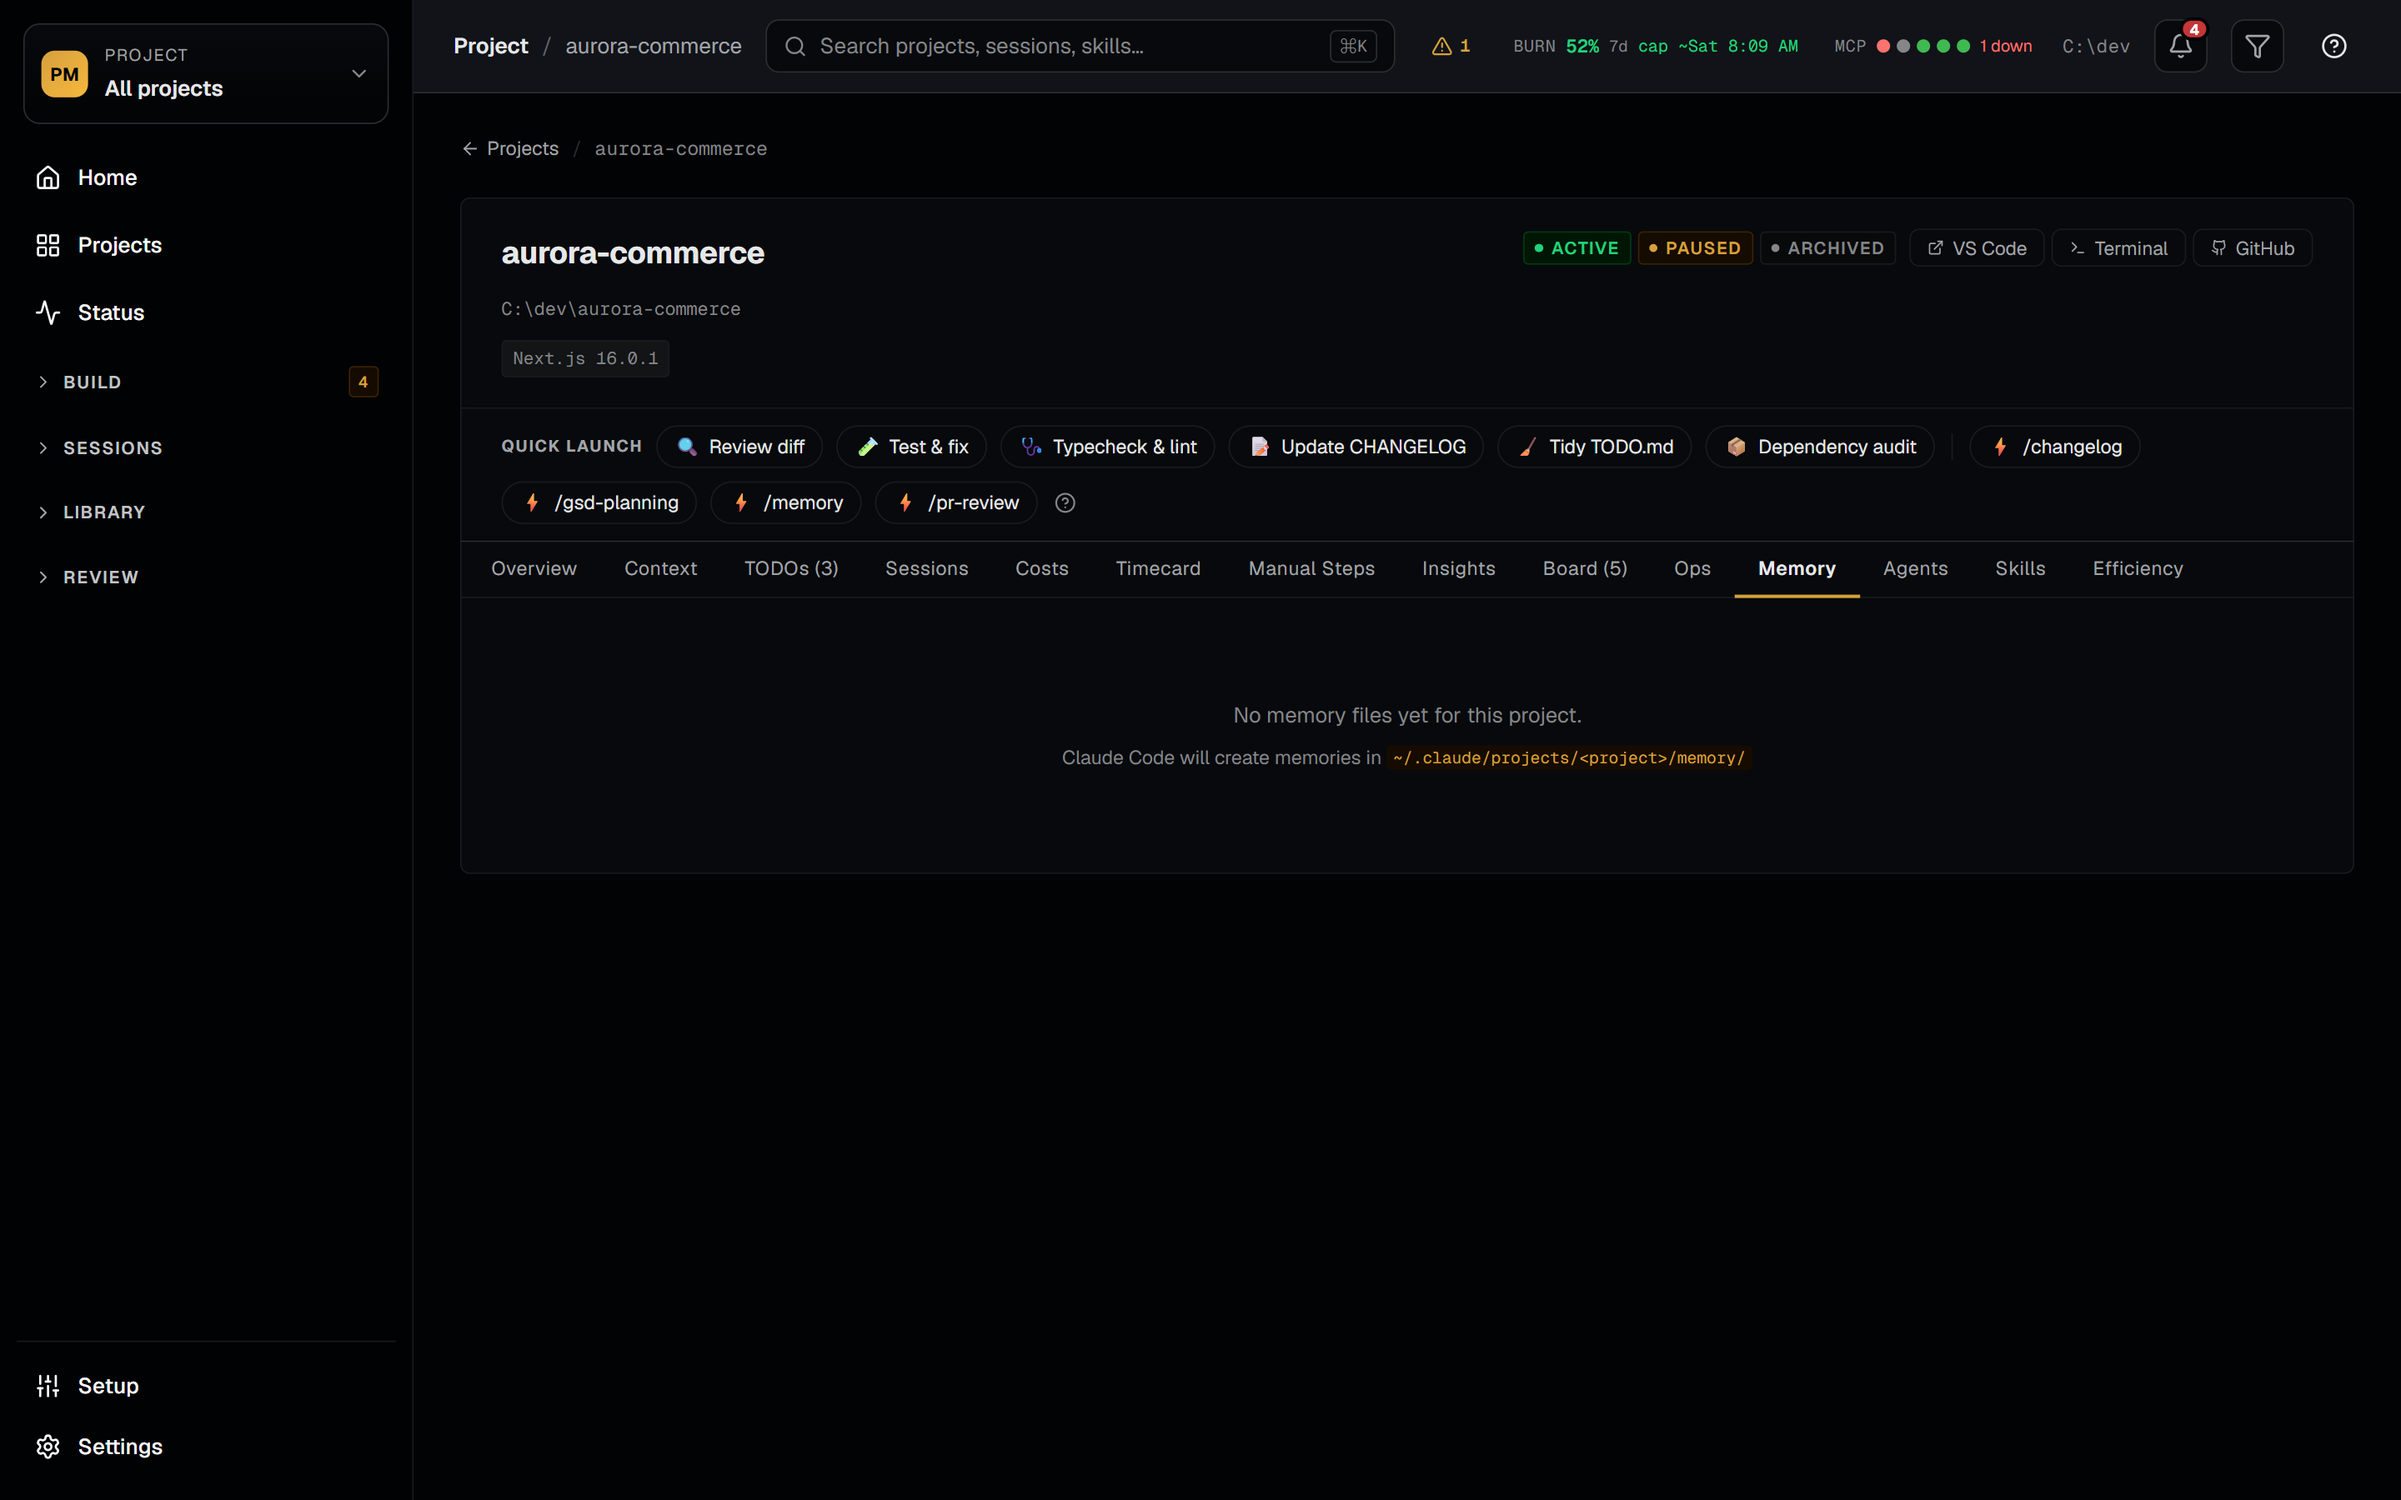
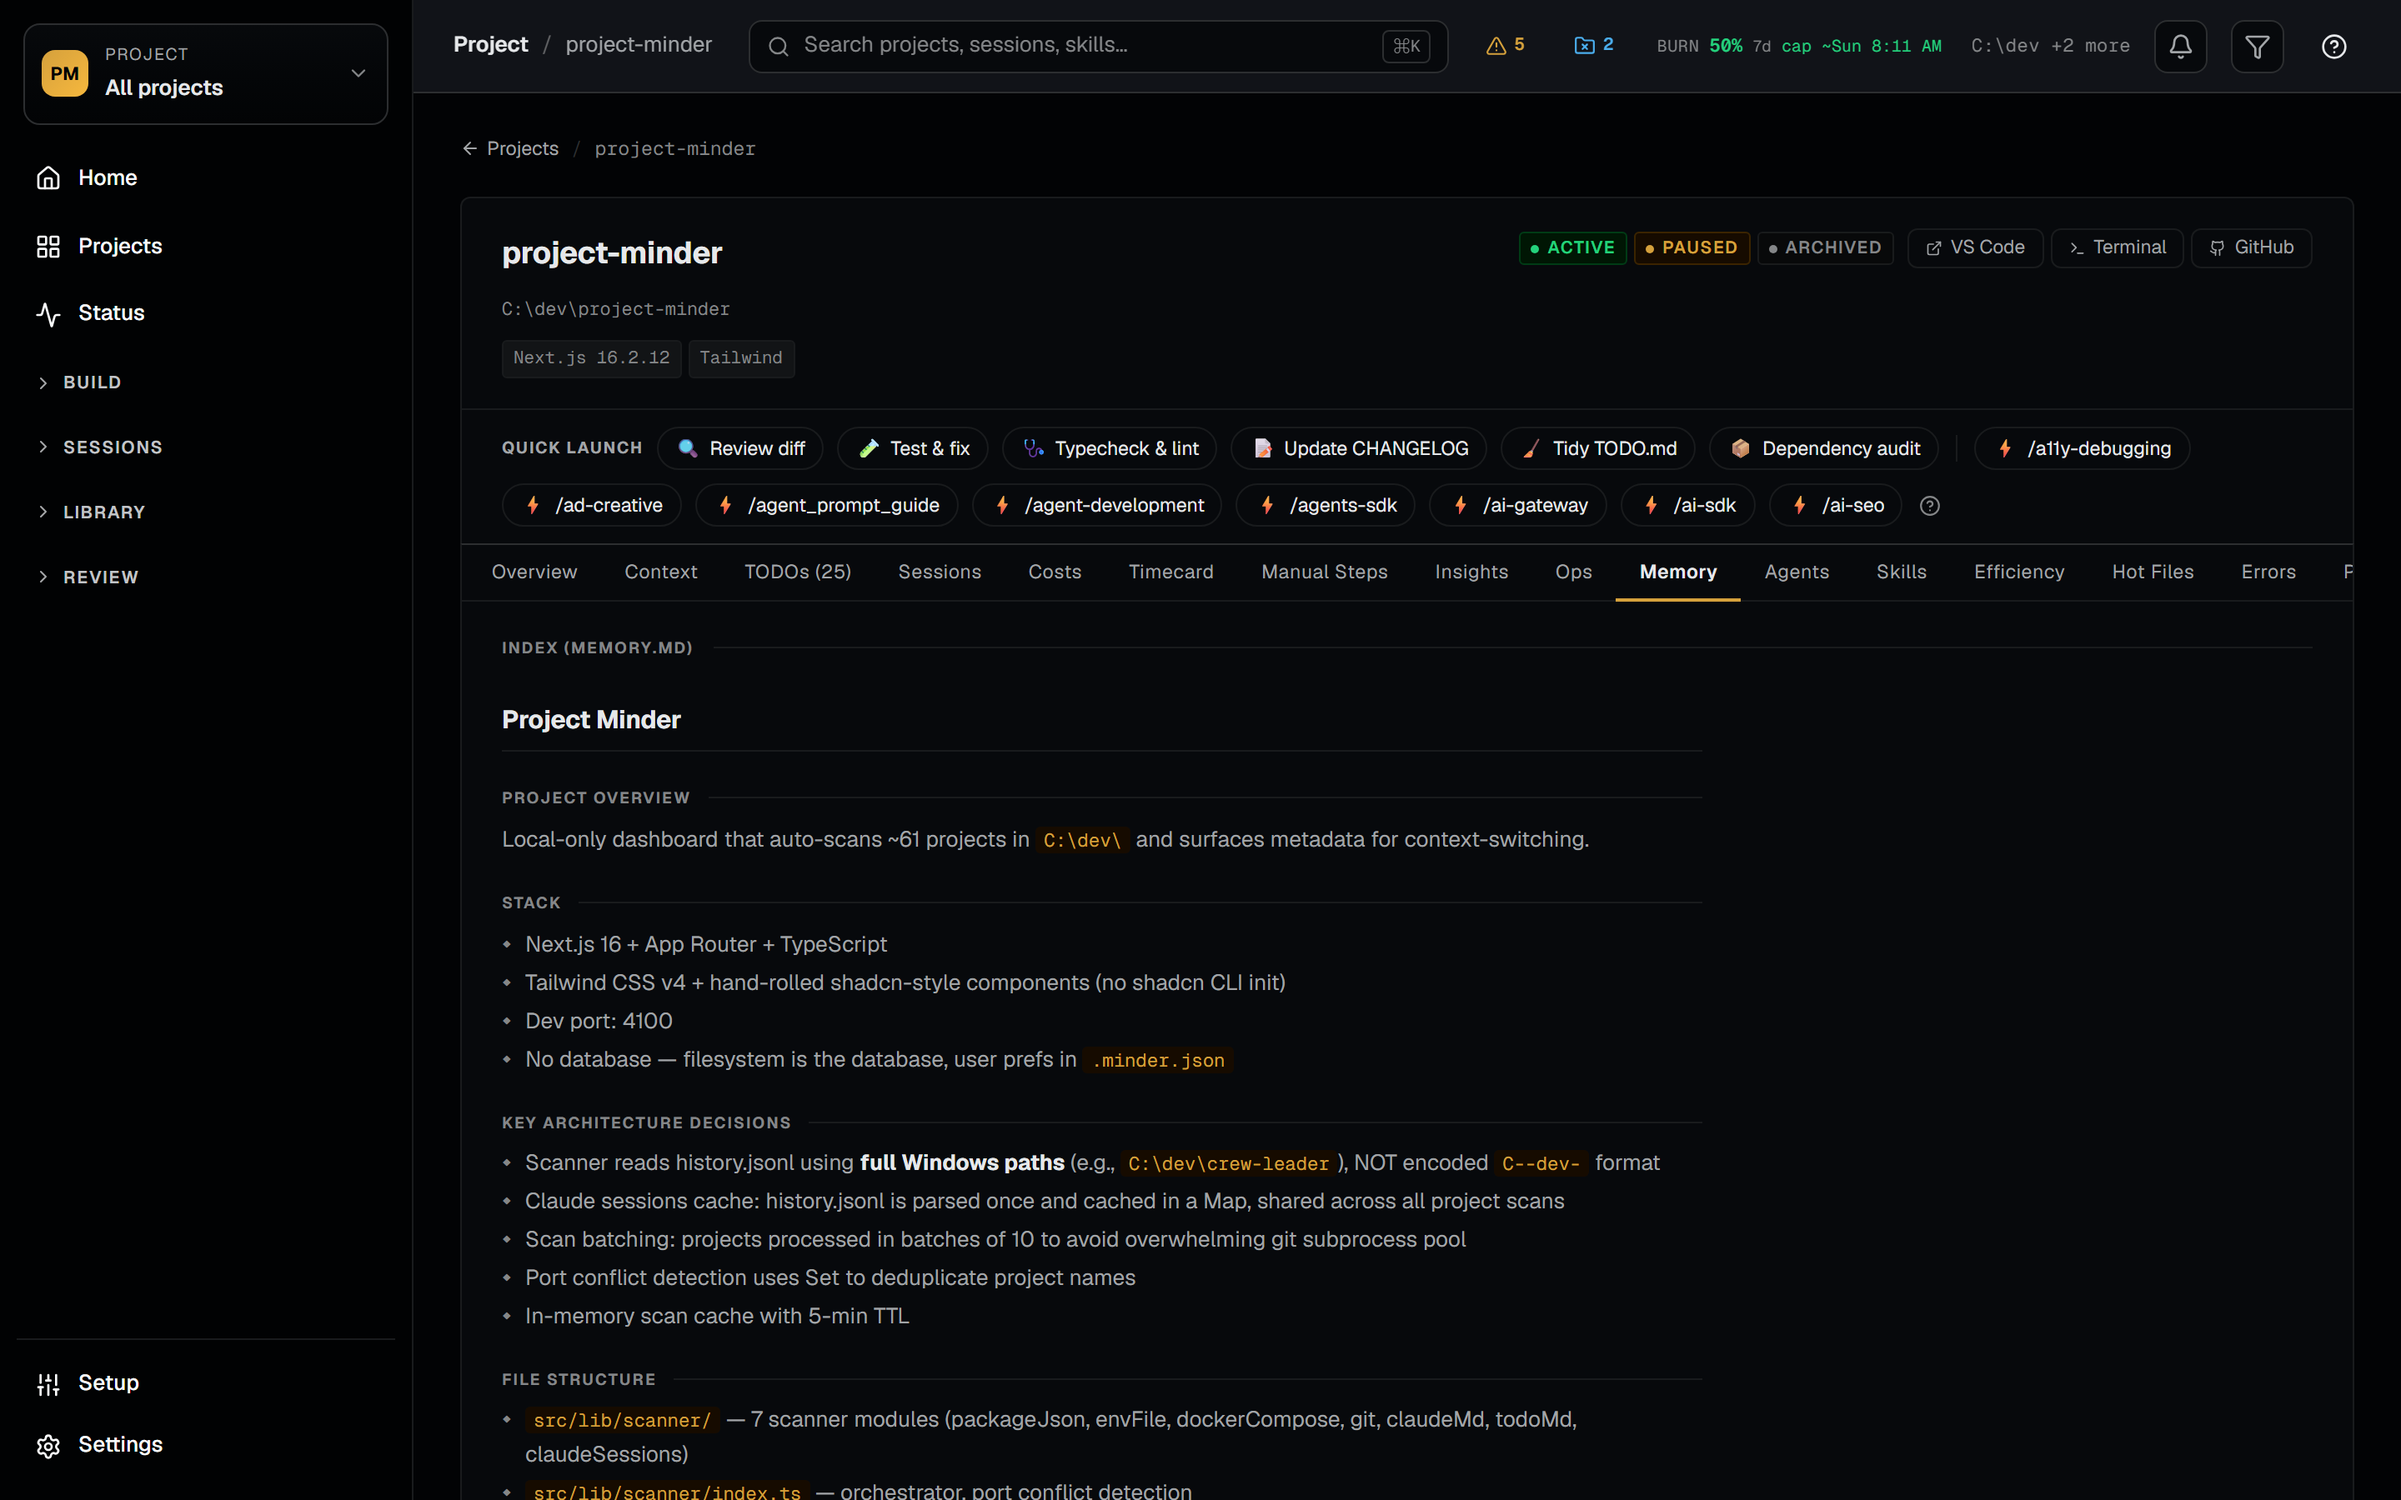
docs(site): inspect every promoted screenshot, and fix the three that were wrong
The previous commit promoted 18 demo-mode shots after looking at two of them.
The hybrid script's own comment says a shot is safe to promote "only after
looking," and the browser-error-page incident had already shown that nav-ok +
file-written + 2880-wide + plausible-size can all pass on a bad image. Looked at
the rest. Three were wrong:

- `memory` was an empty state. Demo fixtures ship no memory files, so the tab
  rendered "No memory files yet for this project" — directly contradicting the
  prose it illustrates. Now captured from real data, showing the actual
  MEMORY.md index. Its first real-data attempt came out blank too (the panel
  fetches after mount with no skeleton, so the stability gate returns instantly),
  which is why `go()` now gets a longer settle for that shot.
- `stats-dashboard` rendered richly but its cross-check panel compares the demo
  totals against the REAL Claude stats cache, showing a red "-91% / -100%"
  drift that reads as a broken app. Real data shows the honest figure instead.
- `dashboard` shipped "CONFIG HEALTH — loading…" in the hero. Those stat cards
  print a plain "loading…" string rather than a skeleton, so waitForStableUI
  sailed straight past them and 4s of postSettle was not enough. Added
  `waitForTextGone`, which fixes the card.

The hero image changed as a result. Home still reads "0 projects · 0 active
sessions" well after everything around it has resolved — on real data as well as
[…]

diff --git a/site/index.html b/site/index.html
@@ -26,8 +26,8 @@
         </div>
       </div>
       <div class="hero-shot">
-        <a href="screenshots/dashboard.png" data-lightbox data-caption="The dashboard — every project as a card with git status, active sessions, and todo counts.">
-          <img src="screenshots/dashboard.png" alt="Project Minder dashboard showing projects with git status, sessions, and todo counts" class="hero-img" width="1440" height="900">
+        <a href="screenshots/projects-grid.png" data-lightbox data-caption="Every project as a card — git branch, dirty count, open PRs, CI state, todos, and whether Claude is working on it right now.">
+          <img src="screenshots/projects-grid.png" alt="Project Minder project grid showing each project as a card with git branch, dirty file count, open PRs, CI state, todo counts, and live Claude session status" class="hero-img" width="1440" height="900">
         </a>
       </div>
     </div>
@@ -80,6 +80,12 @@
               <figcaption>The project grid — search, status filters, and sort across every scanned project.</figcaption>
             </figure>
             <div class="shot-grid">
+              <figure class="shot-figure">
+                <a class="shot-link" href="screenshots/dashboard.png" data-lightbox data-caption="The Home overview — today's spend, turns and token usage, what needs your attention, and live session activity.">
+                  <img src="screenshots/dashboard.png" alt="Project Minder Home overview showing today's spend, turns and token stats, a needs-attention panel, a token usage chart, and live session activity" loading="lazy" width="1440" height="900">
+                </a>
+                <figcaption>Home — spend, attention, and live activity at a glance.</figcaption>
+              </figure>
               <figure class="shot-figure">
                 <a class="shot-link" href="screenshots/card-detail.png" data-lightbox data-caption="A single project card — git dirty indicator and stack badges.">
                   <img src="screenshots/card-detail.png" alt="Project card detail showing git dirty indicator and badges" loading="lazy" width="368" height="302">

diff --git a/TODO.md b/TODO.md
@@ -55,6 +55,7 @@
 - [ ] **~18 captured screens render empty or near-empty under demo mode** — measured by body-text length with the nav chrome stripped: `/agent-view`, `/kanban`, `/tasks`, `/swarms`, `/templates`, `/new-project`, `/sql`, `/schedule`, `/health`, `/insights-report`, `/memory`, `/memory/seed`, `/memory/triage`, `/status`, `/timecard`, `/commands`, `/library`, `/plugins`, `/instructions`. This is why `scripts/capture-screenshots-hybrid.mjs` needs two passes at all — a single demo pass would publish that many blank screenshots. Fixtures for these would let the whole capture run on demo data and make the published set fully shareable.
 - [ ] **`/adapters`, `/config` and `/plans` render real project data under demo mode** — same family as #441 (`/workflows`), found by the same audit: `/adapters` shows `sales-dashboards` and `patchmaven`, `/config` shows `avfrd` and `agency-agents`, `/plans` shows `patchmaven`. Only 19 of 165 API routes reference `demoMode` at all; many are covered transitively through the `data/index.ts` façade, but these are not.
 - [ ] **`/analytics` never finishes loading** — the audit's only hard timeout: 90s with no render, against every other route completing. Not investigated further; likely the same session-JSONL parsing cost as #439.
+- [ ] **Home's header count reads "0 projects · 0 active sessions" long after the page is otherwise usable** — *Not demo-specific.* Observed on a prod build in **both** demo mode (8 fixture projects present, `/projects` rendering 7 of them) and on real data (56 projects), with the stat cards beside it already resolved to real values and "Recent projects · 0 total" still showing skeletons underneath. So the greeting line and the Recent-projects strip settle much later than the rest of Home, or not within ~45s at all. This is why the landing page's hero is the project grid rather than Home — a first impression reading "0 projects" undersells the app. Worth establishing whether the count is simply awaiting the slow `/api/projects` scan (measured at ~130s on a 56-project tree) or is wired to a source that never resolves.
 
 ## Memory Observatory
 
